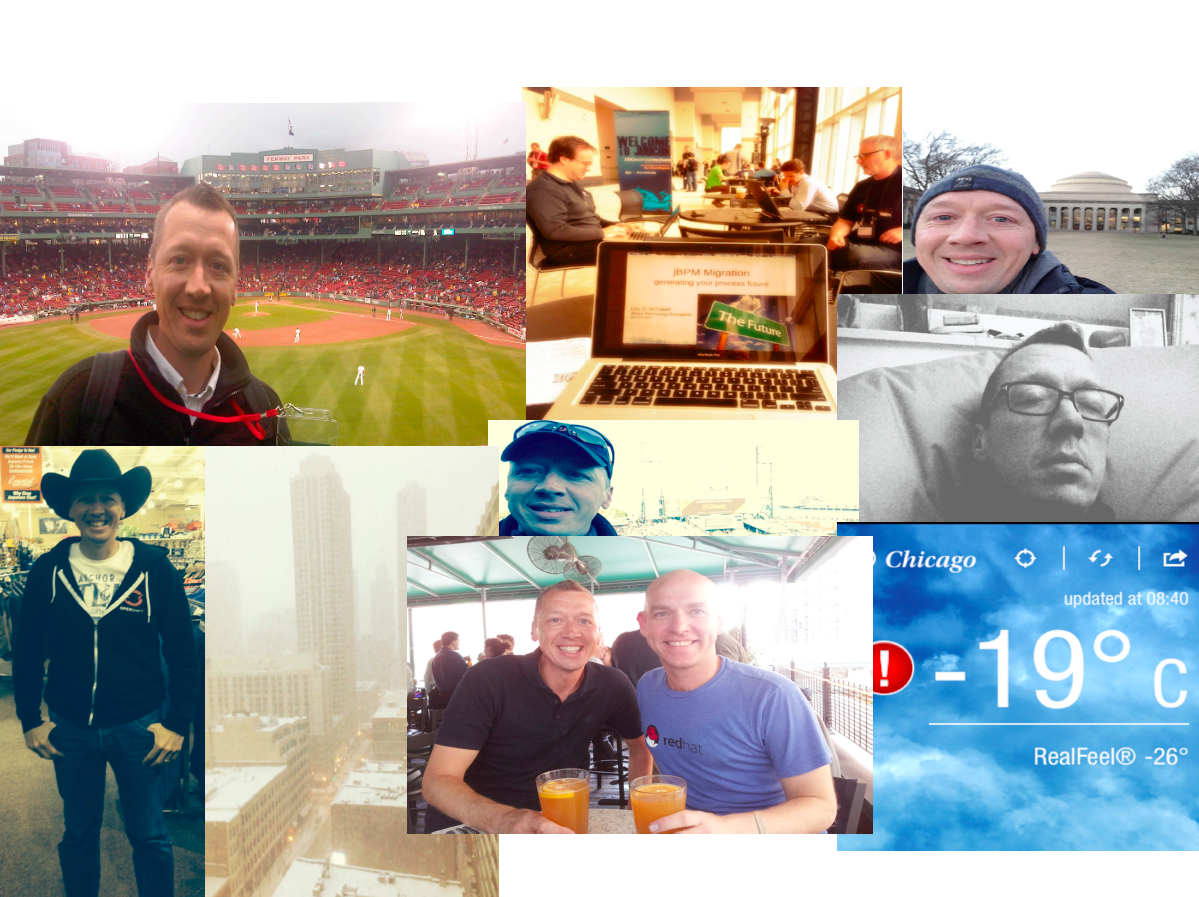
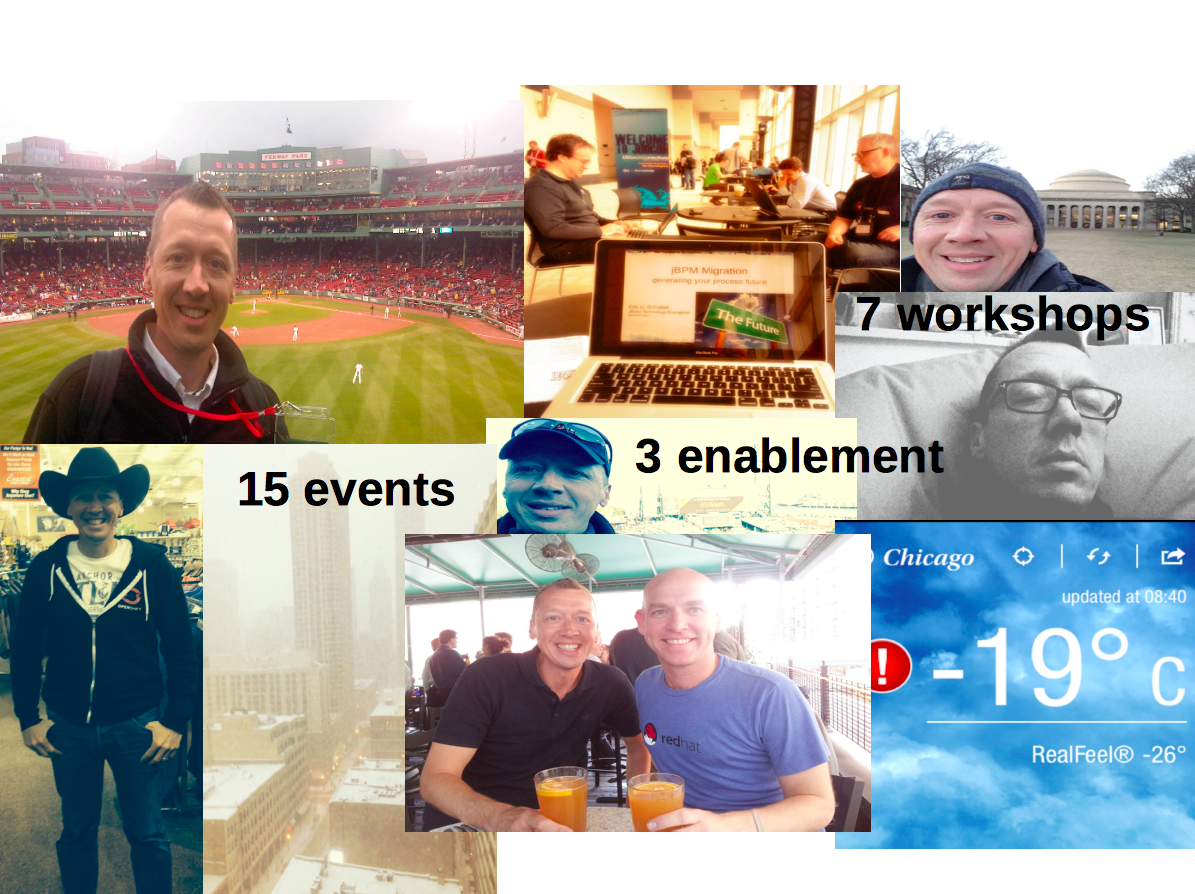
Final initial preso updates.

diff --git a/index.html b/index.html
@@ -99,58 +99,10 @@
                     </div>
                 </section>
 
-                <section>
-                    <div style="width: 1056px; height: 250px;">
-                        <h1>EMEA</h1>
-                    </div>
-                    <div style="width: 1056px; height: 250px; color: white;">
-                        <ul>
-                            <li>TODO: details</li>
-                            <ul>
-                                <li>workshops</li>
-                                <li>JUG's/JBUG's</li>
-                                <li>enablement</li>
-                            </ul>
-                        </ul>
-                    </div>
-                </section>
-
                 <section data-background="images/emea-pics.png" data-background-size="cover">
                 </section>
 
-                <section>
-                    <div style="width: 1056px; height: 250px;">
-                        <h1>NA</h1>
-                    </div>
-                    <div style="width: 1056px; height: 250px; color: white;">
-                        <ul>
-                            <li>TODO: details</li>
-                            <ul>
-                                <li>workshops</li>
-                                <li>JUG's/JBUG's</li>
-                                <li>enablement</li>
-                            </ul>
-                        </ul>
-                    </div>
-                </section>
-
                 <section data-background="images/na-pics.png" data-background-size="cover">
-                </section>
-
-                <section>
-                    <div style="width: 1056px; height: 250px;">
-                        <h1>APAC</h1>
-                    </div>
-                    <div style="width: 1056px; height: 250px; color: white;">
-                        <ul>
-                            <li>TODO: details</li>
-                            <ul>
-                                <li>workshops</li>
-                                <li>JUG's/JBUG's</li>
-                                <li>enablement</li>
-                            </ul>
-                        </ul>
-                    </div>
                 </section>
 
                 <section data-background="images/apac-pics.png" data-background-size="cover">
@@ -162,12 +114,8 @@
                     </div>
                     <div style="width: 1056px; height: 250px; color: white;">
                         <ul>
-                            <li>TODO: pics and details</li>
-                            <ul>
-                                <li>workshops</li>
-                                <li>JUG's/JBUG's</li>
-                                <li>enablement</li>
-                            </ul>
+                            <li>7 events</li>
+                            <li>2 enablement</li>
                         </ul>
                     </div>
                 </section>
@@ -185,7 +133,6 @@
                         </ol>
                     </div>
                 </section>
-<!-- Demos -->
 
                 <section>
                     <section>
@@ -244,8 +191,6 @@
                         <a href="https://openshift.redhat.com/app/console/application_type/custom?&cartridges[]=https://raw.githubusercontent.com/jbossdemocentral/cartridge-bpmPaaS-generic-loan-demo/master/metadata/manifest.yml&name=bpmpaasgenericloan&gear_profile=medium&initial_git_url=" style="color: red" target="_blank"><img src="images/click-to-install.png"></a>
                     </div>
                 </section>
-
-                <!-- TODO: add slide for xPaaS -->
 
                 <section>
                     <section>
@@ -343,6 +288,7 @@
                 </section>
 
                 <section data-background="images/laptop-stickers.jpg" data-background-size="cover">
+                    <img src="images/new-laptop.jpg">
                 </section>
 
                 <section  data-background-color="black">
